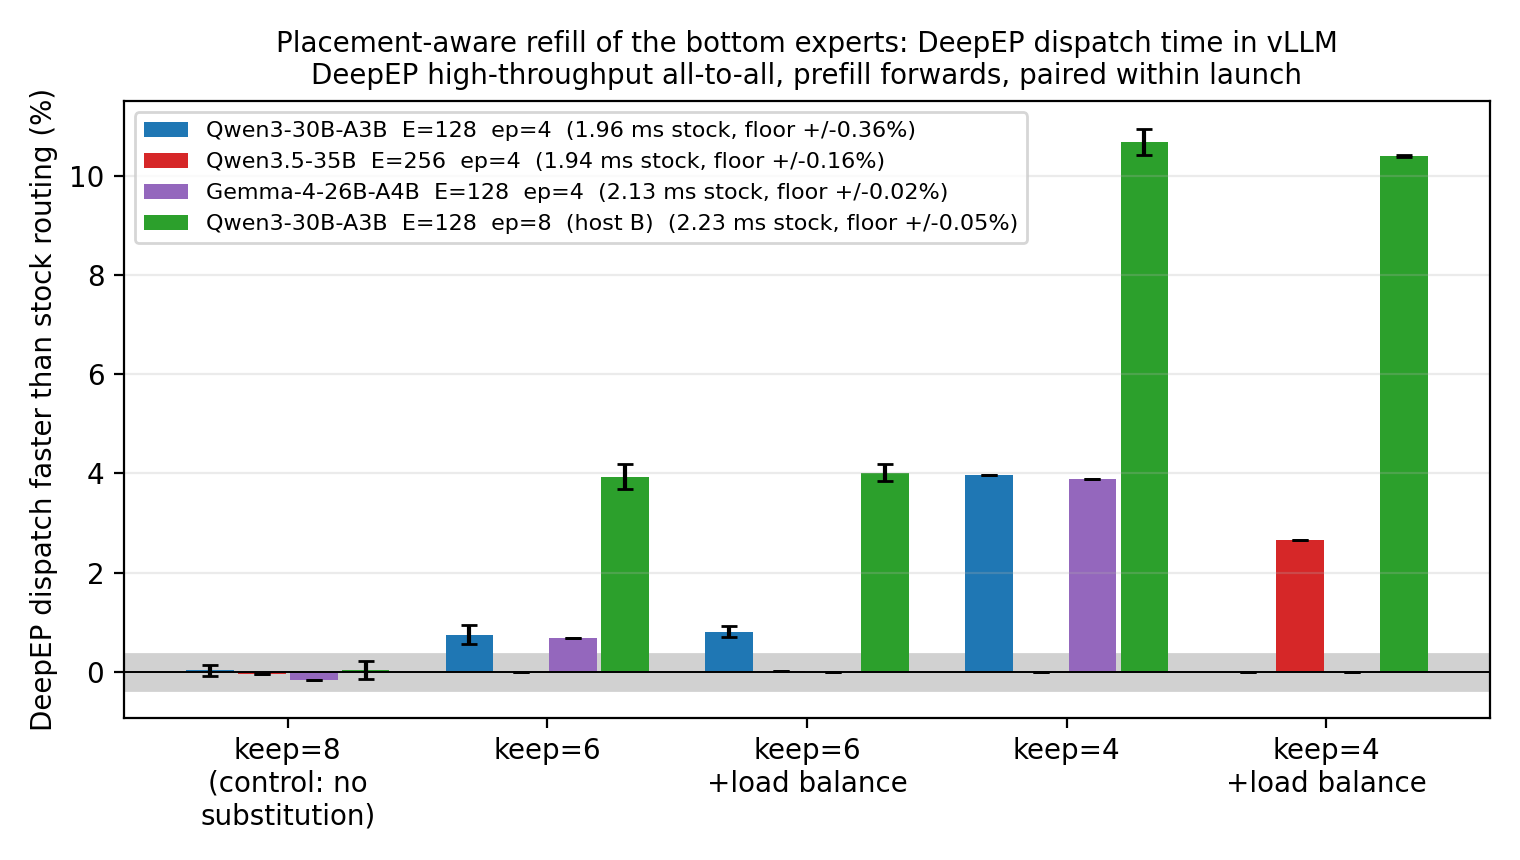
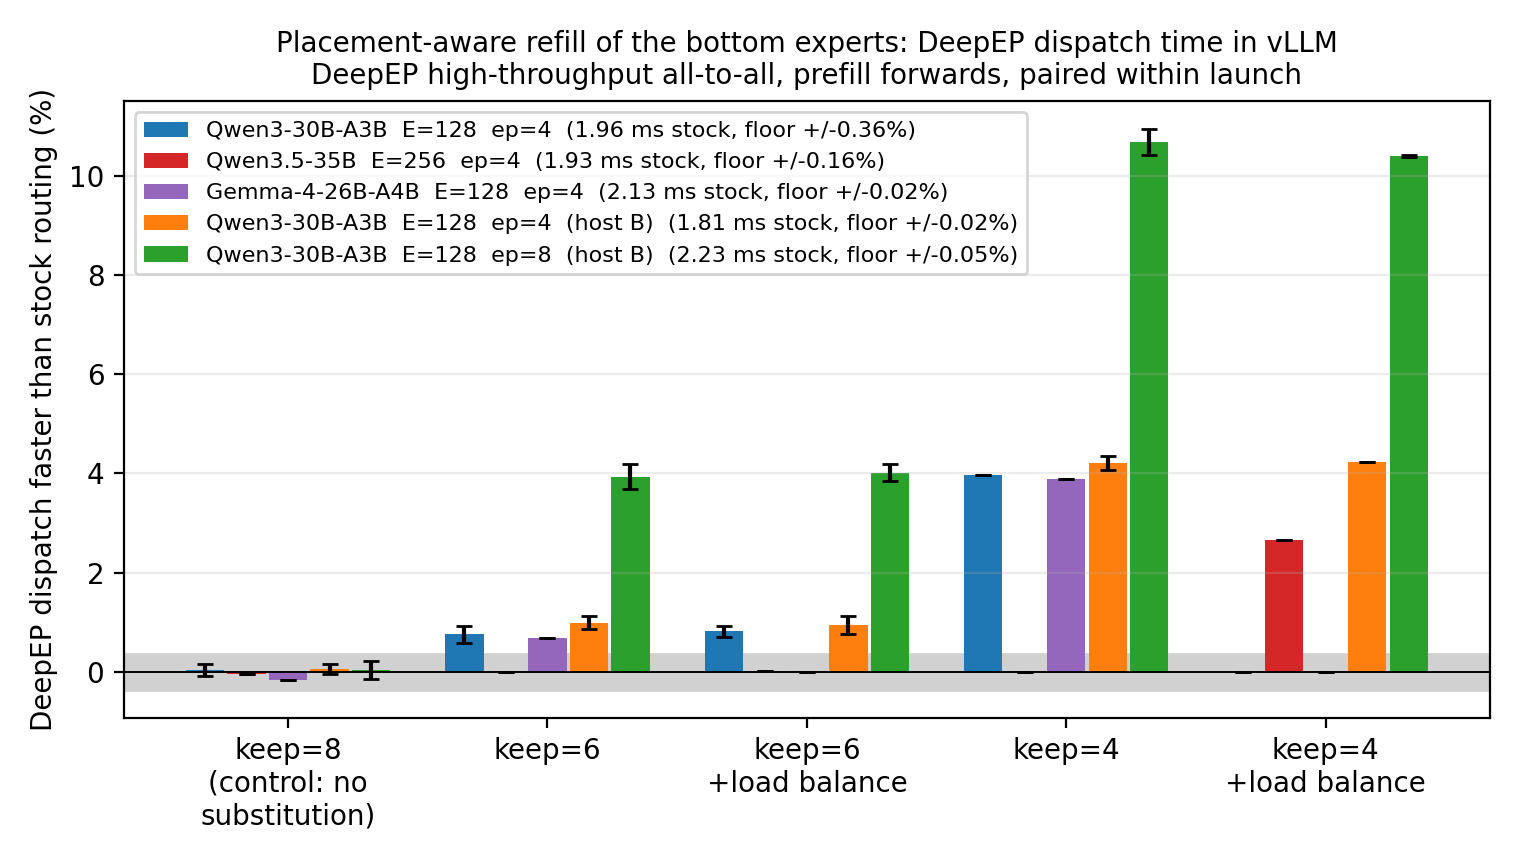
Add the ep=4 row on the same host as the ep=8 row
The ep step was previously read across two clusters. Qwen3-30B now has an ep=4
and an ep=8 row on the same host type, so the fan-out scaling is a within-host
comparison: 0.9% to 4.0% at keep=6, 4.2% to 10.4% at keep=4.

diff --git a/README.md b/README.md
@@ -196,19 +196,22 @@ the zero-substitution control: the kernel runs and selects nothing different.
 | model | stock ms / deepep dispatch | tokens / forward | floor | keep=8 (control: no substitution) | keep=6 | keep=6 +load balance | keep=4 | keep=4 +load balance |
 |---|---|---|---|---|---|---|---|---|
 | Qwen3-30B-A3B  E=128  ep=4 | 1.96 | 16384 | +/-0.36% | **+0.0%** x4 | **+0.8%** x4 | **+0.8%** x4 | **+4.0%** x1 | - |
-| Qwen3.5-35B  E=256  ep=4 | 1.94 | 16384 | +/-0.16% | **-0.0%** x1 | - | **+0.0%** x1 | - | **+2.7%** x1 |
+| Qwen3.5-35B  E=256  ep=4 | 1.93 | 16384 | +/-0.16% | **-0.0%** x2 | - | **+0.0%** x1 | - | **+2.7%** x1 |
 | Gemma-4-26B-A4B  E=128  ep=4 | 2.13 | 16384 | +/-0.02% | **-0.2%** x1 | **+0.7%** x1 | - | **+3.9%** x1 | - |
+| Qwen3-30B-A3B  E=128  ep=4  (host B) | 1.81 | 16384 | +/-0.02% | **+0.1%** x3 | **+1.0%** x3 | **+0.9%** x3 | **+4.2%** x2 | **+4.2%** x1 |
 | Qwen3-30B-A3B  E=128  ep=8  (host B) | 2.23 | 16384 | +/-0.05% | **+0.0%** x3 | **+3.9%** x3 | **+4.0%** x5 | **+10.7%** x2 | **+10.4%** x2 |
 <!-- /disptime -->
 
 The numbers are the 16384-token prefill bucket, `x`n is how many independent launches each cell
 averages, and positive is faster. The floor is per row, because a cell is only ever divided by
 launches of its own tag: it is that row's widest base-against-base spread, halved. Four things
-make this the rule rather than the instrument. Every substitution arm is faster, on all four
-families. The zero-substitution control is not (-0.2% to +0.0%), so the kernel's own cost is
-not what is being measured. The gain is monotone in the substitution budget. And it roughly
-doubles from ep=4 to ep=8 - which is what a fan-out saving has to do, since a wider world gives
-a fixed `keep` more distinct ranks to avoid visiting.
+make this the rule rather than the instrument. Every substitution arm is faster, on every
+family. The zero-substitution control is not (-0.2% to +0.1%), so the kernel's own cost is not
+what is being measured. The gain is monotone in the substitution budget. And the last two rows
+are the same model on the same host type at two world sizes, so the `ep` step can be read
+without crossing clusters: 0.9% becomes 4.0% at `keep=6`, 4.2% becomes 10.4% at `keep=4`. That
+is what a fan-out saving has to do, since a wider world gives a fixed `keep` more distinct ranks
+to avoid visiting.
 
 Timing dispatch separately is not a convenience. The whole-layer clock nets the byte saving
 against the expert GEMM, and that GEMM is grouped: restricting the allowed expert set skews the
@@ -220,9 +223,10 @@ also what the load-balance term is for - adding the max-rank-load penalty to the
 <!-- moetime -->
 | model | stock ms / moe layer | tokens / forward | floor | keep=8 (control: no substitution) | keep=6 | keep=6 +load balance | keep=4 | keep=4 +load balance |
 |---|---|---|---|---|---|---|---|---|
-| Qwen3-30B-A3B  E=128  ep=4 | 8.08 | 16384 | +/-0.20% | **-0.6%** x6 | **-2.1%** x6 | **+2.0%** x4 | **-5.2%** x3 | **-1.8%** x1 |
-| Qwen3.5-35B  E=256  ep=4 | 7.06 | 16384 | +/-0.22% | **-0.3%** x3 | **-1.7%** x2 | **+0.9%** x1 | **-1.8%** x2 | **-0.5%** x1 |
+| Qwen3-30B-A3B  E=128  ep=4 | 8.08 | 16384 | +/-0.20% | **-0.6%** x6 | **-2.1%** x6 | **+1.9%** x4 | **-5.2%** x3 | **-1.8%** x1 |
+| Qwen3.5-35B  E=256  ep=4 | 6.99 | 16384 | +/-0.22% | **-0.4%** x4 | **-1.7%** x2 | **+0.9%** x1 | **-1.8%** x2 | **-0.5%** x1 |
 | Gemma-4-26B-A4B  E=128  ep=4 | 9.67 | 16384 | +/-0.10% | **-0.2%** x2 | **-1.9%** x2 | - | **-5.2%** x2 | - |
+| Qwen3-30B-A3B  E=128  ep=4  (host B) | 7.56 | 16384 | +/-0.08% | **-0.6%** x3 | **-2.3%** x3 | **+2.0%** x3 | **-5.4%** x2 | **-1.7%** x1 |
 | Qwen3-30B-A3B  E=128  ep=8  (host B) | 11.17 | 16384 | +/-0.52% | **-0.1%** x4 | **-3.1%** x3 | **+0.5%** x6 | **-6.0%** x2 | **-1.7%** x3 |
 <!-- /moetime -->
 

diff --git a/runs/moetime.md b/runs/moetime.md
@@ -2,7 +2,8 @@ MoE layer time inside a running vLLM 0.31 engine on the DeepEP high-throughput a
 
 | model | stock ms / moe layer | tokens / forward | floor | keep=8 (control: no substitution) | keep=6 | keep=6 +load balance | keep=4 | keep=4 +load balance |
 |---|---|---|---|---|---|---|---|---|
-| Qwen3-30B-A3B  E=128  ep=4 | 8.08 | 16384 | +/-0.20% | **-0.6%** x6 | **-2.1%** x6 | **+2.0%** x4 | **-5.2%** x3 | **-1.8%** x1 |
-| Qwen3.5-35B  E=256  ep=4 | 7.06 | 16384 | +/-0.22% | **-0.3%** x3 | **-1.7%** x2 | **+0.9%** x1 | **-1.8%** x2 | **-0.5%** x1 |
+| Qwen3-30B-A3B  E=128  ep=4 | 8.08 | 16384 | +/-0.20% | **-0.6%** x6 | **-2.1%** x6 | **+1.9%** x4 | **-5.2%** x3 | **-1.8%** x1 |
+| Qwen3.5-35B  E=256  ep=4 | 6.99 | 16384 | +/-0.22% | **-0.4%** x4 | **-1.7%** x2 | **+0.9%** x1 | **-1.8%** x2 | **-0.5%** x1 |
 | Gemma-4-26B-A4B  E=128  ep=4 | 9.67 | 16384 | +/-0.10% | **-0.2%** x2 | **-1.9%** x2 | - | **-5.2%** x2 | - |
+| Qwen3-30B-A3B  E=128  ep=4  (host B) | 7.56 | 16384 | +/-0.08% | **-0.6%** x3 | **-2.3%** x3 | **+2.0%** x3 | **-5.4%** x2 | **-1.7%** x1 |
 | Qwen3-30B-A3B  E=128  ep=8  (host B) | 11.17 | 16384 | +/-0.52% | **-0.1%** x4 | **-3.1%** x3 | **+0.5%** x6 | **-6.0%** x2 | **-1.7%** x3 |

diff --git a/runs/disptime.md b/runs/disptime.md
@@ -3,6 +3,7 @@ DeepEP dispatch time inside a running vLLM 0.31 engine on the DeepEP high-throug
 | model | stock ms / deepep dispatch | tokens / forward | floor | keep=8 (control: no substitution) | keep=6 | keep=6 +load balance | keep=4 | keep=4 +load balance |
 |---|---|---|---|---|---|---|---|---|
 | Qwen3-30B-A3B  E=128  ep=4 | 1.96 | 16384 | +/-0.36% | **+0.0%** x4 | **+0.8%** x4 | **+0.8%** x4 | **+4.0%** x1 | - |
-| Qwen3.5-35B  E=256  ep=4 | 1.94 | 16384 | +/-0.16% | **-0.0%** x1 | - | **+0.0%** x1 | - | **+2.7%** x1 |
+| Qwen3.5-35B  E=256  ep=4 | 1.93 | 16384 | +/-0.16% | **-0.0%** x2 | - | **+0.0%** x1 | - | **+2.7%** x1 |
 | Gemma-4-26B-A4B  E=128  ep=4 | 2.13 | 16384 | +/-0.02% | **-0.2%** x1 | **+0.7%** x1 | - | **+3.9%** x1 | - |
+| Qwen3-30B-A3B  E=128  ep=4  (host B) | 1.81 | 16384 | +/-0.02% | **+0.1%** x3 | **+1.0%** x3 | **+0.9%** x3 | **+4.2%** x2 | **+4.2%** x1 |
 | Qwen3-30B-A3B  E=128  ep=8  (host B) | 2.23 | 16384 | +/-0.05% | **+0.0%** x3 | **+3.9%** x3 | **+4.0%** x5 | **+10.7%** x2 | **+10.4%** x2 |
